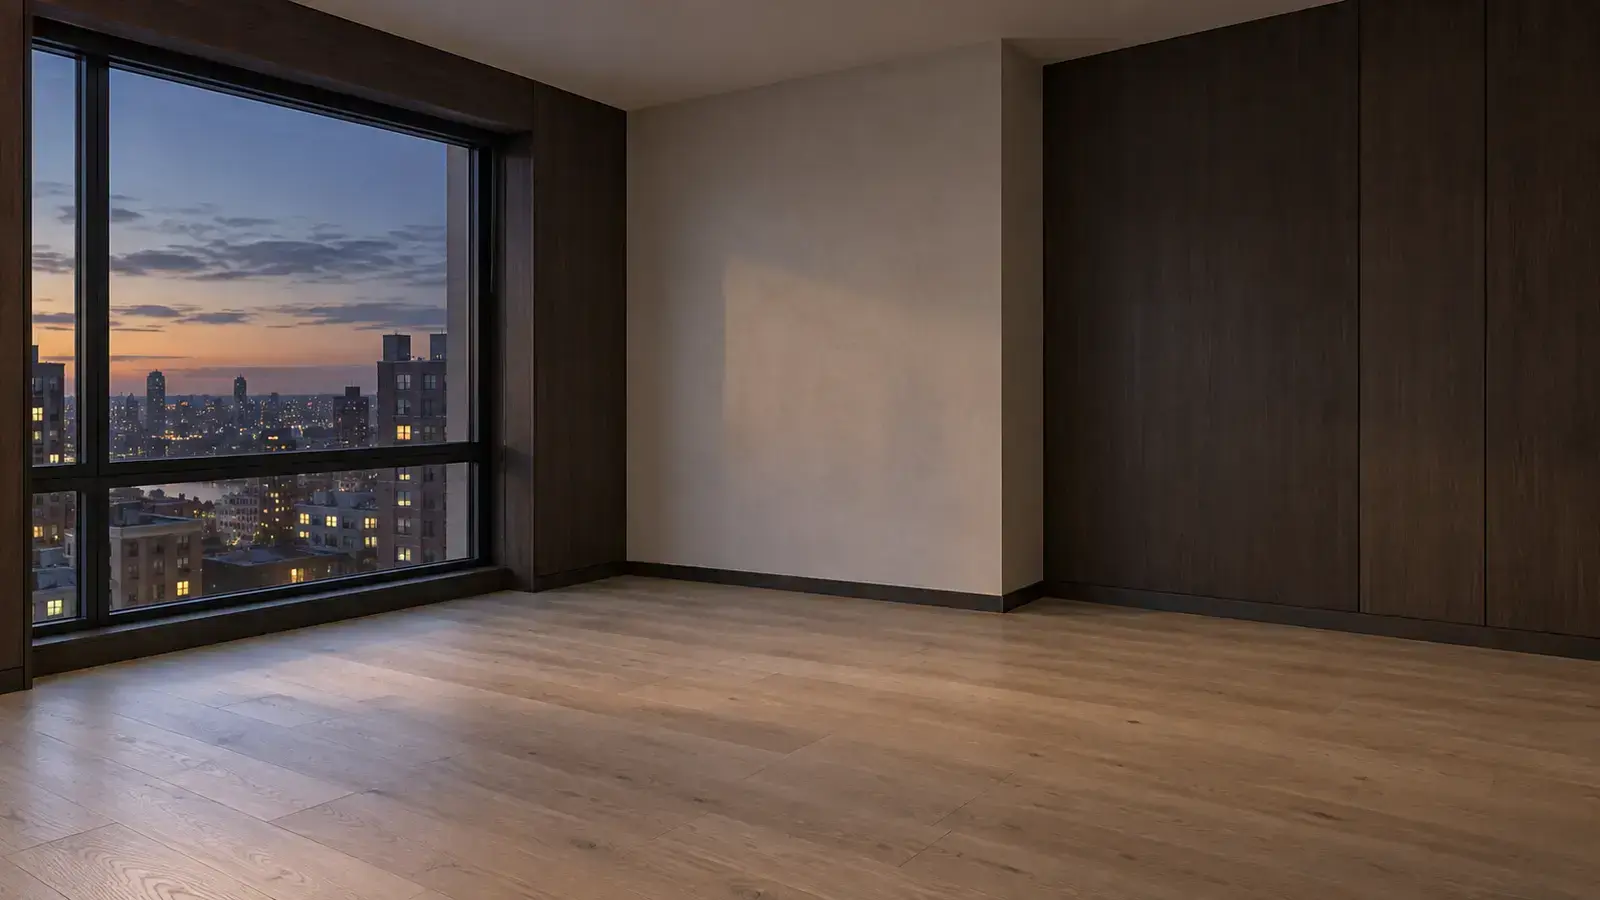
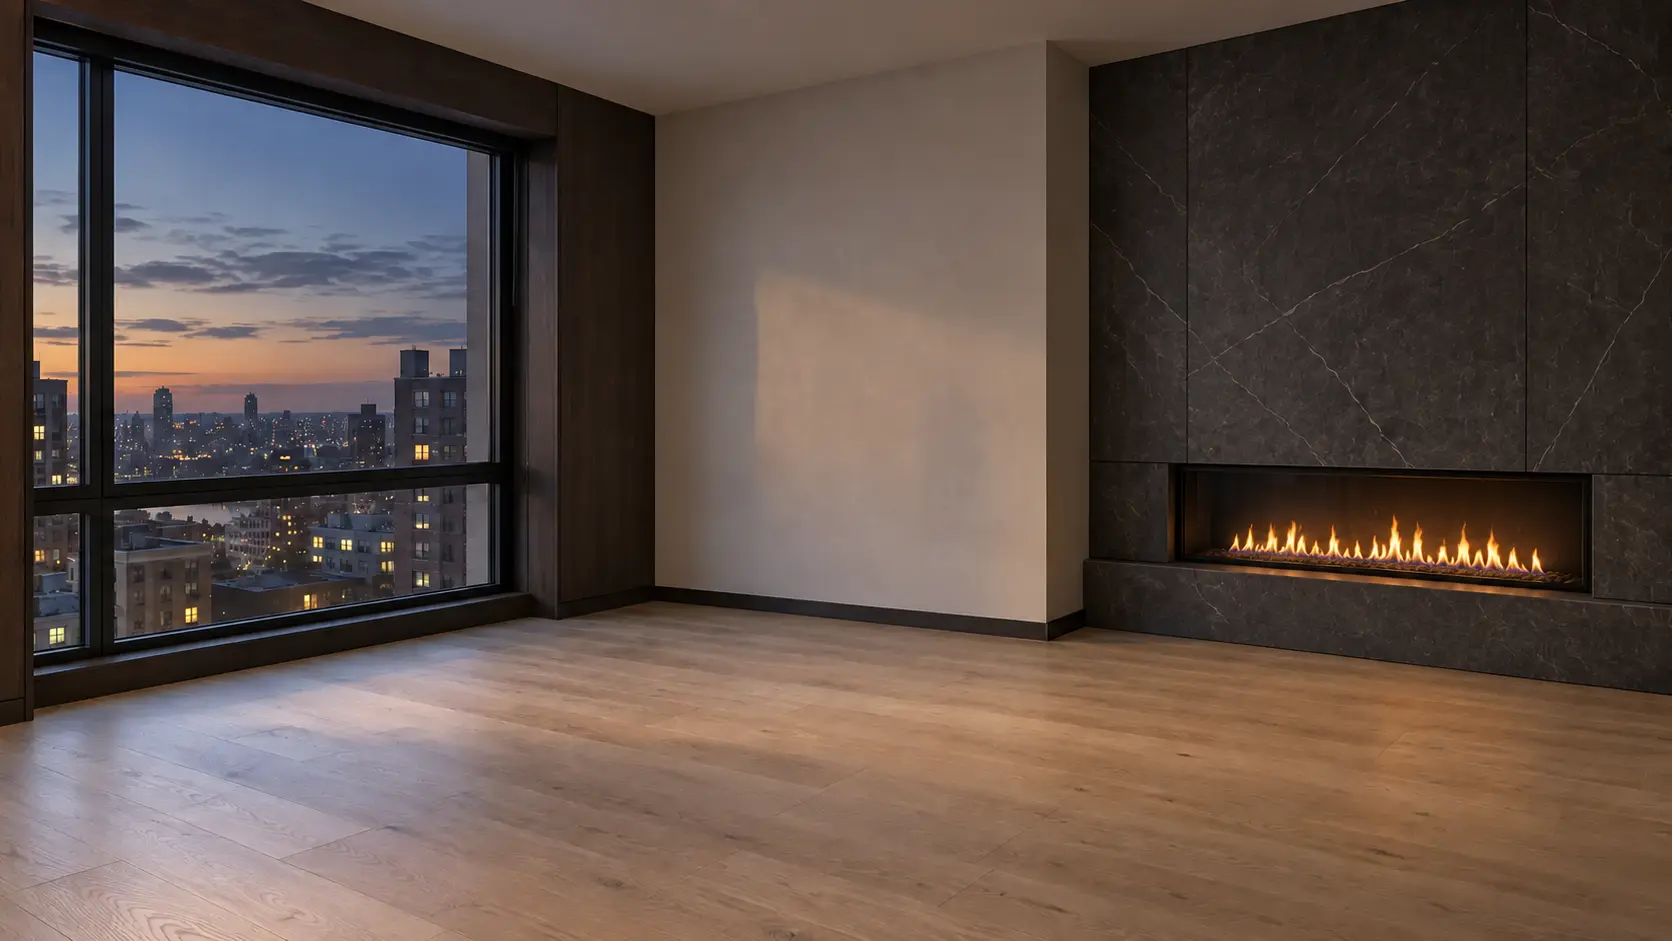
2

diff --git a/app.js b/app.js
@@ -39,12 +39,31 @@ const raw=[
  ["wall-sconce","Architectural Wall Sconce",179,"Lighting",ANY,"wall",145,"modern"],
  ["wall-mailbox","Wall-mounted Mailbox",159,"Exterior",["exterior"],"wall",165,"modern"],
  ["hose-reel","Garden Hose Reel",189,"Exterior",["exterior","patio"],"wall",175,"modern"],
- ["gas-grill","Premium Gas Grill",799,"Exterior",["patio"],"floor",240,"modern"]
+ ["gas-grill","Premium Gas Grill",799,"Exterior",["patio"],"floor",240,"modern"],
+ ["copper-gutters","Aged Copper Gutter Kit",1850,"Exterior",["exterior"],"wall",250,"luxury"],
+ ["brass-address-plaque","Cast Brass Address Plaque",145,"Exterior",["exterior"],"wall",125,"luxury"],
+ ["entry-runner","Charcoal Woven Runner",329,"Decor",["entry"],"floor",265,"warm"],
+ ["entry-hook-rail","Walnut Entry Hook Rail",169,"Entry",["entry"],"wall",180,"warm"],
+ ["modular-sectional","Warm Gray Modular Sectional",3199,"Seating",["living"],"floor",320,"modern"],
+ ["brass-arc-lamp","Arched Brass Floor Lamp",429,"Lighting",["living"],"floor",225,"luxury"],
+ ["hanging-pot-rack","Walnut Hanging Pot Rack",699,"Countertop",["kitchen"],"ceiling",220,"warm"],
+ ["travertine-fruit-bowl","Travertine Pear Bowl",189,"Decor",["kitchen","dining"],"surface",125,"organic"],
+ ["oval-dining-table","Oval Stone Dining Table",2299,"Tables",["dining"],"floor",305,"luxury",1],
+ ["smoked-glass-chandelier","Smoked Glass Chandelier",1299,"Lighting",["dining"],"ceiling",220,"luxury"],
+ ["canopy-bed","Walnut Canopy Bed",2899,"Bedroom",["bedroom"],"floor",315,"warm"],
+ ["bedroom-vanity","Walnut Dressing Vanity",1099,"Bedroom",["bedroom"],"floor",235,"warm",1],
+ ["soaking-tub","Sculptural Soaking Tub",2199,"Bathroom",["bathroom"],"floor",260,"luxury"],
+ ["heated-towel-rail","Brass Heated Towel Rail",549,"Bathroom",["bathroom"],"wall",175,"luxury"],
+ ["executive-desk","Fluted Walnut Executive Desk",1799,"Office",["office"],"floor",285,"luxury",1],
+ ["articulated-desk-lamp","Articulated Brass Desk Lamp",249,"Lighting",["office"],"surface",135,"warm"],
+ ["outdoor-sectional","Woven Outdoor Sectional",2699,"Exterior",["patio"],"floor",310,"modern"],
+ ["stone-fire-pit","Cast Stone Fire Pit",899,"Exterior",["patio"],"floor",210,"organic"]
 ];
-const PRODUCTS=raw.map(([id,name,price,category,rooms,placement,size,style,support=0])=>({id,name,price,category,rooms,placement,size,style,support:!!support,image:`assets/items/${id}.webp`}));
+const FLAT_IDS=new Set(["cream-rug","entry-runner"]);
+const PRODUCTS=raw.map(([id,name,price,category,rooms,placement,size,style,support=0])=>({id,name,price,category,rooms,placement,size,style,support:!!support,flat:FLAT_IDS.has(id),image:`assets/items/${id}.webp`}));
 const $=s=>document.querySelector(s),$$=s=>[...document.querySelectorAll(s)];
-const el={welcome:$("#welcome"),scene:$("#scene"),bg:$("#scene-bg"),layer:$("#object-layer"),door:$("#door-hotspot"),doorLabel:$("#door-label"),doorAction:$("#door-action"),room:$("#room-label"),corner:$("#corner-label"),dots:$("#corner-dots"),budget:$("#budget"),roomScore:$("#room-score"),catalog:$("#catalog"),grid:$("#product-grid"),cats:$("#categories"),owned:$("#owned-count"),roomsCount:$("#rooms-count"),inspector:$("#inspector"),selectedName:$("#selected-name"),selectedPrice:$("#selected-price"),scale:$("#scale-control"),tilt:$("#tilt-control"),rotate:$("#rotate-control"),map:$("#map-dialog"),roomGrid:$("#room-grid"),offers:$("#offers-dialog"),offersGrid:$("#offers"),sale:$("#sale-dialog"),toast:$("#toast"),openHouse:$("#open-house"),shopToggle:$("#shop-toggle"),prevView:$("#prev-view"),nextView:$("#next-view")};
-let state={budget:STARTING_BUDGET,room:"exterior",corner:0,objects:[],selected:null,mode:"shop",category:"All",sold:false},db,drag,doorTap=0,swipeStart;
+const el={welcome:$("#welcome"),scene:$("#scene"),bg:$("#scene-bg"),layer:$("#object-layer"),door:$("#door-hotspot"),doorLabel:$("#door-label"),doorAction:$("#door-action"),room:$("#room-label"),corner:$("#corner-label"),dots:$("#corner-dots"),budget:$("#budget"),roomScore:$("#room-score"),catalog:$("#catalog"),grid:$("#product-grid"),cats:$("#categories"),owned:$("#owned-count"),roomsCount:$("#rooms-count"),inspector:$("#inspector"),selectedName:$("#selected-name"),selectedPrice:$("#selected-price"),scale:$("#scale-control"),tilt:$("#tilt-control"),rotate:$("#rotate-control"),rotateLabel:$("#rotate-label"),map:$("#map-dialog"),roomGrid:$("#room-grid"),offers:$("#offers-dialog"),offersGrid:$("#offers"),sale:$("#sale-dialog"),toast:$("#toast"),openHouse:$("#open-house"),shopToggle:$("#shop-toggle"),prevView:$("#prev-view"),nextView:$("#next-view")};
+let state={budget:STARTING_BUDGET,room:"exterior",corner:0,objects:[],selected:null,mode:"shop",category:"All",sold:false,scoreCaps:{}},db,drag,doorTap=0,swipeStart;
 const money=n=>`₢${Math.round(n).toLocaleString("en-US")}`,product=id=>PRODUCTS.find(p=>p.id===id),currentCorner=()=>ROOMS[state.room].corners[state.corner];
 function toast(msg){el.toast.textContent=msg;el.toast.classList.add("show");clearTimeout(toast.t);toast.t=setTimeout(()=>el.toast.classList.remove("show"),1900)}
 function tone(freq){try{tone.ctx??=new AudioContext();const o=tone.ctx.createOscillator(),g=tone.ctx.createGain();o.frequency.value=freq;g.gain.setValueAtTime(.022,tone.ctx.currentTime);g.gain.exponentialRampToValueAtTime(.001,tone.ctx.currentTime+.11);o.connect(g).connect(tone.ctx.destination);o.start();o.stop(tone.ctx.currentTime+.12)}catch{}}
@@ -53,7 +72,9 @@ function load(){return new Promise(ok=>{if(!db)return ok();const q=db.transactio
 function save(){if(db)db.transaction("save","readwrite").objectStore("save").put({...state,selected:null},SAVE_KEY)}
 async function enterGame(){try{await document.documentElement.requestFullscreen?.();await screen.orientation?.lock?.("landscape")}catch{}if(matchMedia("(orientation:landscape)").matches)el.welcome.classList.add("hidden")}
 function roomObjects(room=state.room){return state.objects.filter(o=>!o.stored&&o.room===room)}
-function roomScore(room){const os=roomObjects(room),cats=new Set(os.map(o=>product(o.productId)?.category)),spent=os.reduce((n,o)=>n+(product(o.productId)?.price||0),0);return Math.min(100,Math.round(os.length*16+cats.size*8+Math.min(18,spent/500)))}
+function roomScore(room){const os=roomObjects(room),cats=new Set(os.map(o=>product(o.productId)?.category)),spent=os.reduce((n,o)=>n+(product(o.productId)?.price||0),0),base=Math.min(100,Math.round(os.length*16+cats.size*8+Math.min(18,spent/500)));return Math.min(base,state.scoreCaps?.[room]??100)}
+function debitRoomScore(room,count=1){state.scoreCaps??={};state.scoreCaps[room]=Math.max(0,roomScore(room)-16*count)}
+function creditRoomScore(room,count=1){state.scoreCaps??={};state.scoreCaps[room]=Math.min(100,(state.scoreCaps[room]??100)+16*count)}
 function readyRooms(){return ALL_ROOMS.filter(r=>roomScore(r)===100).length}
 function houseCompletion(){return Math.round(ALL_ROOMS.reduce((sum,r)=>sum+roomScore(r),0)/ALL_ROOMS.length)}
 function imageStyle(p){return `background-image:url('${p.image}')`}
@@ -66,9 +87,9 @@ function render(){
  renderObjects();renderCatalog();renderMap();save();
 }
 function renderObjects(){
- el.layer.innerHTML="";state.objects.filter(o=>!o.stored&&o.room===state.room&&o.corner===state.corner).sort((a,b)=>a.z-b.z).forEach(o=>{const p=product(o.productId);if(!p)return;const node=document.createElement("div");node.className=`placed-object${o.uid===state.selected?" selected":""}`;node.dataset.uid=o.uid;node.dataset.placement=p.placement;node.style.cssText=`${imageStyle(p)};--object-size:${p.size}px;left:${o.x}%;top:${o.y}%;z-index:${o.z};transform:translate(-50%,-50%) perspective(760px) rotateY(${o.facing}deg) rotateZ(${o.tilt}deg) scaleX(${o.flip}) scale(${o.scale})`;node.setAttribute("role","button");node.setAttribute("aria-label",p.name);node.addEventListener("pointerdown",startDrag);el.layer.append(node)});renderInspector();
+ el.layer.innerHTML="";state.objects.filter(o=>!o.stored&&o.room===state.room&&o.corner===state.corner).sort((a,b)=>a.z-b.z).forEach(o=>{const p=product(o.productId);if(!p)return;const node=document.createElement("div");node.className=`placed-object${o.uid===state.selected?" selected":""}${p.flat?" flat":""}`;node.dataset.uid=o.uid;node.dataset.placement=p.placement;const rotation=p.flat?`rotateX(${o.tilt}deg) rotateZ(${o.facing}deg)`:`rotateY(${o.facing}deg) rotateZ(${o.tilt}deg)`;node.style.cssText=`${imageStyle(p)};--object-size:${p.size}px;left:${o.x}%;top:${o.y}%;z-index:${o.z};transform:translate(-50%,-50%) perspective(760px) ${rotation} scaleX(${o.flip}) scale(${o.scale})`;node.setAttribute("role","button");node.setAttribute("aria-label",p.name);node.addEventListener("pointerdown",startDrag);el.layer.append(node)});renderInspector();
 }
-function renderInspector(){const o=selected(),p=o&&product(o.productId);el.inspector.classList.toggle("visible",!!o);el.inspector.setAttribute("aria-hidden",String(!o));if(!o)return;el.selectedName.textContent=p.name;el.selectedPrice.textContent=money(p.price);el.scale.value=Math.round(o.scale*100);el.tilt.value=o.tilt;el.rotate.value=o.facing}
+function renderInspector(){const o=selected(),p=o&&product(o.productId);el.inspector.classList.toggle("visible",!!o);el.inspector.setAttribute("aria-hidden",String(!o));if(!o)return;el.selectedName.textContent=p.name;el.selectedPrice.textContent=money(p.price);el.scale.value=Math.round(o.scale*100);el.tilt.value=o.tilt;el.rotate.min=p.flat?-180:-65;el.rotate.max=p.flat?180:65;el.rotateLabel.textContent=p.flat?"ROTATE · 2D":"ROTATE · 2.5D";el.rotate.value=o.facing}
 function categories(){return ["All",...new Set(PRODUCTS.map(p=>p.category))]}
 function renderCatalog(){
  el.owned.textContent=state.objects.length;el.roomsCount.textContent=`${readyRooms()}/9`;
@@ -79,8 +100,8 @@ function renderCatalog(){
  el.grid.querySelectorAll(".product-card").forEach(b=>b.onclick=()=>b.dataset.uid?placeOwned(b.dataset.uid):buy(b.dataset.id));
 }
 function renderMap(){el.roomGrid.innerHTML=ALL_ROOMS.map(r=>`<button class="map-room ${r===state.room?"current":""}" data-room="${r}"><div class="map-room-img" style="background-image:url('${ROOMS[r].corners[0].image}')"></div><div class="map-room-meta"><strong>${ROOMS[r].name}</strong><span>${roomScore(r)}%</span></div></button>`).join("");el.roomGrid.querySelectorAll(".map-room").forEach(b=>b.onclick=()=>{el.map.close();goRoom(b.dataset.room)})}
-function buy(id){const p=product(id);if(!p||state.budget<p.price)return toast("Not enough Cruzeiros for this piece");state.budget-=p.price;const allowed=p.rooms.includes(state.room),room=allowed?state.room:p.rooms[0],stored=!allowed;const o={uid:crypto.randomUUID(),productId:id,room,corner:allowed?state.corner:0,x:50,y:p.placement==="wall"?40:p.placement==="ceiling"?27:p.placement==="surface"?58:73,scale:1,tilt:0,facing:0,flip:1,z:state.objects.length+1,stored,parentUid:null};state.objects.push(o);state.selected=stored?null:o.uid;render();toast(stored?`${p.name} saved to Owned · suited for ${ROOMS[room].name}`:`${p.name} placed · ${money(state.budget)} left`);tone(330)}
-function placeOwned(uid){const o=state.objects.find(x=>x.uid===uid),p=o&&product(o.productId);if(!o)return;if(!p.rooms.includes(state.room)){toast(`${p.name} is suited for ${p.rooms.map(r=>ROOMS[r].name).join(", ")}`);return}o.stored=false;o.room=state.room;o.corner=state.corner;o.x=50;o.y=p.placement==="wall"?40:p.placement==="ceiling"?27:p.placement==="surface"?58:73;o.parentUid=null;state.selected=uid;closeCatalog();render();toast("Piece ready to position")}
+function buy(id){const p=product(id);if(!p||state.budget<p.price)return toast("Not enough Cruzeiros for this piece");state.budget-=p.price;creditRoomScore(state.room);const o={uid:crypto.randomUUID(),productId:id,room:state.room,corner:state.corner,x:50,y:p.placement==="wall"?40:p.placement==="ceiling"?27:p.placement==="surface"?58:73,scale:1,tilt:0,facing:0,flip:1,z:state.objects.length+1,stored:false,parentUid:null};state.objects.push(o);state.selected=o.uid;render();toast(`${p.name} placed · ${money(state.budget)} left`);tone(330)}
+function placeOwned(uid){const o=state.objects.find(x=>x.uid===uid),p=o&&product(o.productId);if(!o)return;creditRoomScore(state.room);o.stored=false;o.room=state.room;o.corner=state.corner;o.x=50;o.y=p.placement==="wall"?40:p.placement==="ceiling"?27:p.placement==="surface"?58:73;o.parentUid=null;state.selected=uid;closeCatalog();render();toast("Piece ready to position")}
 function selected(){return state.objects.find(o=>o.uid===state.selected)}
 function startDrag(e){e.stopPropagation();const o=state.objects.find(x=>x.uid===e.currentTarget.dataset.uid);state.selected=o.uid;drag={o,node:e.currentTarget,id:e.pointerId,lastX:o.x,lastY:o.y};e.currentTarget.setPointerCapture(e.pointerId);e.currentTarget.classList.add("dragging","selected");renderInspector()}
 el.layer.addEventListener("pointermove",e=>{if(!drag||drag.id!==e.pointerId)return;const r=el.scene.getBoundingClientRect(),p=product(drag.o.productId),oldX=drag.o.x,oldY=drag.o.y;drag.o.x=Math.max(3,Math.min(97,(e.clientX-r.left)/r.width*100));let y=(e.clientY-r.top)/r.height*100;if(p.placement==="wall")y=Math.max(19,Math.min(61,y));else if(p.placement==="ceiling")y=Math.max(12,Math.min(42,y));else if(p.placement==="surface")y=Math.max(37,Math.min(73,y));else y=Math.max(46,Math.min(88,y));drag.o.y=y;if(p.support){const dx=drag.o.x-oldX,dy=drag.o.y-oldY;state.objects.filter(c=>c.parentUid===drag.o.uid).forEach(c=>{c.x+=dx;c.y+=dy})}drag.node.style.left=`${drag.o.x}%`;drag.node.style.top=`${drag.o.y}%`});
@@ -89,8 +110,8 @@ function snapToSurface(o){const p=product(o.productId);if(p.placement!=="surface
 function mutate(fn){const o=selected();if(!o)return;fn(o);renderObjects();save()}
 el.scale.oninput=e=>mutate(o=>o.scale=Number(e.target.value)/100);el.tilt.oninput=e=>mutate(o=>o.tilt=Number(e.target.value));el.rotate.oninput=e=>mutate(o=>o.facing=Number(e.target.value));
 $("#flip-object").onclick=()=>mutate(o=>o.flip*=-1);$("#layer-down").onclick=()=>mutate(o=>o.z=Math.max(1,o.z-1));$("#layer-up").onclick=()=>mutate(o=>o.z+=1);
-$("#store-object").onclick=()=>{const o=selected();if(!o)return;o.stored=true;state.objects.filter(c=>c.parentUid===o.uid).forEach(c=>{c.stored=true;c.parentUid=null});state.selected=null;render();toast("Moved to Owned")};
-$("#sell-object").onclick=()=>{const o=selected();if(!o)return;const p=product(o.productId),refund=Math.round(p.price*.65);state.objects.filter(c=>c.parentUid===o.uid).forEach(c=>{c.stored=true;c.parentUid=null});state.objects=state.objects.filter(x=>x.uid!==o.uid);state.budget+=refund;state.selected=null;render();toast(`${p.name} sold for ${money(refund)}`)};
+$("#store-object").onclick=()=>{const o=selected();if(!o)return;const children=state.objects.filter(c=>c.parentUid===o.uid&&!c.stored);debitRoomScore(o.room,1+children.length);o.stored=true;children.forEach(c=>{c.stored=true;c.parentUid=null});state.selected=null;render();toast("Moved to Owned · room score updated")};
+$("#sell-object").onclick=()=>{const o=selected();if(!o)return;const p=product(o.productId),refund=Math.round(p.price*.65),children=state.objects.filter(c=>c.parentUid===o.uid&&!c.stored);debitRoomScore(o.room,1+children.length);children.forEach(c=>{c.stored=true;c.parentUid=null});state.objects=state.objects.filter(x=>x.uid!==o.uid);state.budget+=refund;state.selected=null;render();toast(`${p.name} sold for ${money(refund)} · room score updated`)};
 function changeView(d){const count=ROOMS[state.room].corners.length;if(count<2)return;state.corner=(state.corner+d+count)%count;state.selected=null;render();tone(180)}
 function goRoom(room,from=state.room){if(!ROOMS[room])return;state.room=room;const returnView=ROOMS[room].corners.findIndex(c=>c.target===from||c.returnFrom?.includes(from));state.corner=returnView>=0?returnView:0;state.selected=null;closeCatalog();render();toast(ROOMS[room].name);tone(240)}
 function enterDoor(){const target=currentCorner().target;if(target)goRoom(target,state.room)}

diff --git a/sw.js b/sw.js
@@ -1,5 +1,5 @@
-const CACHE="nth-house-v3-distinct-views";
+const CACHE="nth-house-v4-furnish-anywhere";
 const CORE=["./","./index.html","./styles.css","./app.js","./manifest.webmanifest"];
-self.addEventListener("install",event=>event.waitUntil(caches.open(CACHE).then(cache=>cache.addAll(CORE))));
-self.addEventListener("activate",event=>event.waitUntil(caches.keys().then(keys=>Promise.all(keys.filter(key=>key!==CACHE).map(key=>caches.delete(key))))));
-self.addEventListener("fetch",event=>event.respondWith(caches.match(event.request).then(hit=>hit||fetch(event.request).then(response=>{if(event.request.method==="GET"){const copy=response.clone();caches.open(CACHE).then(cache=>cache.put(event.request,copy));}return response;}))));
+self.addEventListener("install",event=>event.waitUntil(caches.open(CACHE).then(cache=>cache.addAll(CORE)).then(()=>self.skipWaiting())));
+self.addEventListener("activate",event=>event.waitUntil(caches.keys().then(keys=>Promise.all(keys.filter(key=>key!==CACHE).map(key=>caches.delete(key)))).then(()=>self.clients.claim())));
+self.addEventListener("fetch",event=>{if(event.request.method!=="GET")return;event.respondWith(fetch(event.request).then(response=>{const copy=response.clone();caches.open(CACHE).then(cache=>cache.put(event.request,copy));return response}).catch(()=>caches.match(event.request)))});

diff --git a/index.html b/index.html
@@ -53,7 +53,7 @@
       <div class="inspector-title"><strong id="selected-name">Object</strong><span id="selected-price"></span></div>
       <label><span>SIZE</span><input id="scale-control" type="range" min="45" max="165" value="100"></label>
       <label><span>TILT</span><input id="tilt-control" type="range" min="-24" max="24" value="0"></label>
-      <label><span>ROTATE</span><input id="rotate-control" type="range" min="-65" max="65" value="0"></label>
+      <label><span id="rotate-label">ROTATE · 2.5D</span><input id="rotate-control" type="range" min="-65" max="65" value="0"></label>
       <div class="inspector-actions"><button id="flip-object">FLIP</button><button id="layer-down">BEHIND</button><button id="layer-up">FRONT</button><button id="store-object">STORE</button><button id="sell-object" class="danger">SELL 65%</button></div>
     </section>
     <dialog id="map-dialog" class="modal map-dialog"><button id="map-close" class="close-button" aria-label="Close house map">×</button><p class="eyebrow">ASHBURY ROW</p><h2>House map</h2><p class="modal-intro">Choose a room, or move naturally by double-tapping its doorway.</p><div id="room-grid" class="room-grid"></div></dialog>

diff --git a/styles.css b/styles.css
@@ -17,3 +17,8 @@
 .corner-0 .scene-bg,.corner-1 .scene-bg,.corner-2 .scene-bg,.corner-3 .scene-bg{inset:-2%;transform:scale(1.04)}
 .categories button{display:inline-flex;align-items:center;justify-content:center;min-height:34px;border-radius:999px;padding:8px 16px 9px;line-height:1;white-space:nowrap}
 .door-hotspot{pointer-events:none}
+.categories{gap:10px;padding:12px 4px 12px 0;touch-action:pan-x;overscroll-behavior-inline:contain;scroll-snap-type:x proximity}
+.categories button{min-height:28px;padding:6px 10px 7px;font-size:.61rem;scroll-snap-align:start}
+.placed-object.flat{transform-origin:50% 50%}
+.inspector label{grid-template-columns:74px 1fr}
+#rotate-label{white-space:nowrap;font-size:.58rem}
